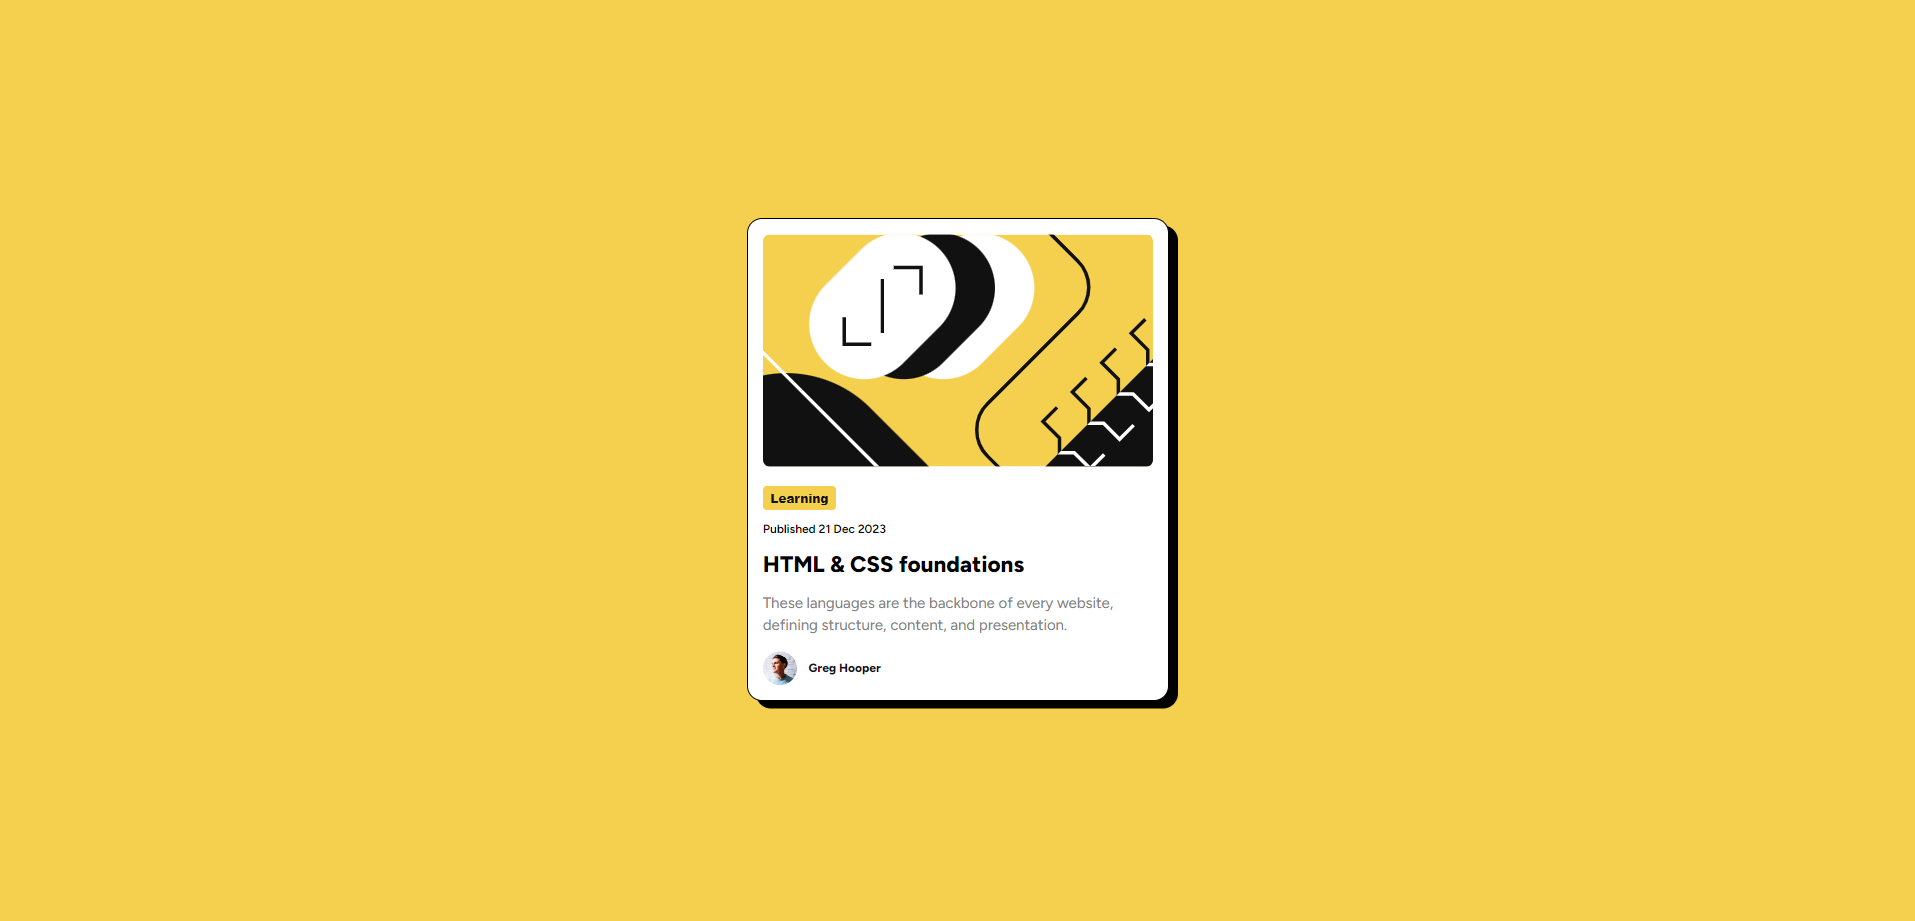
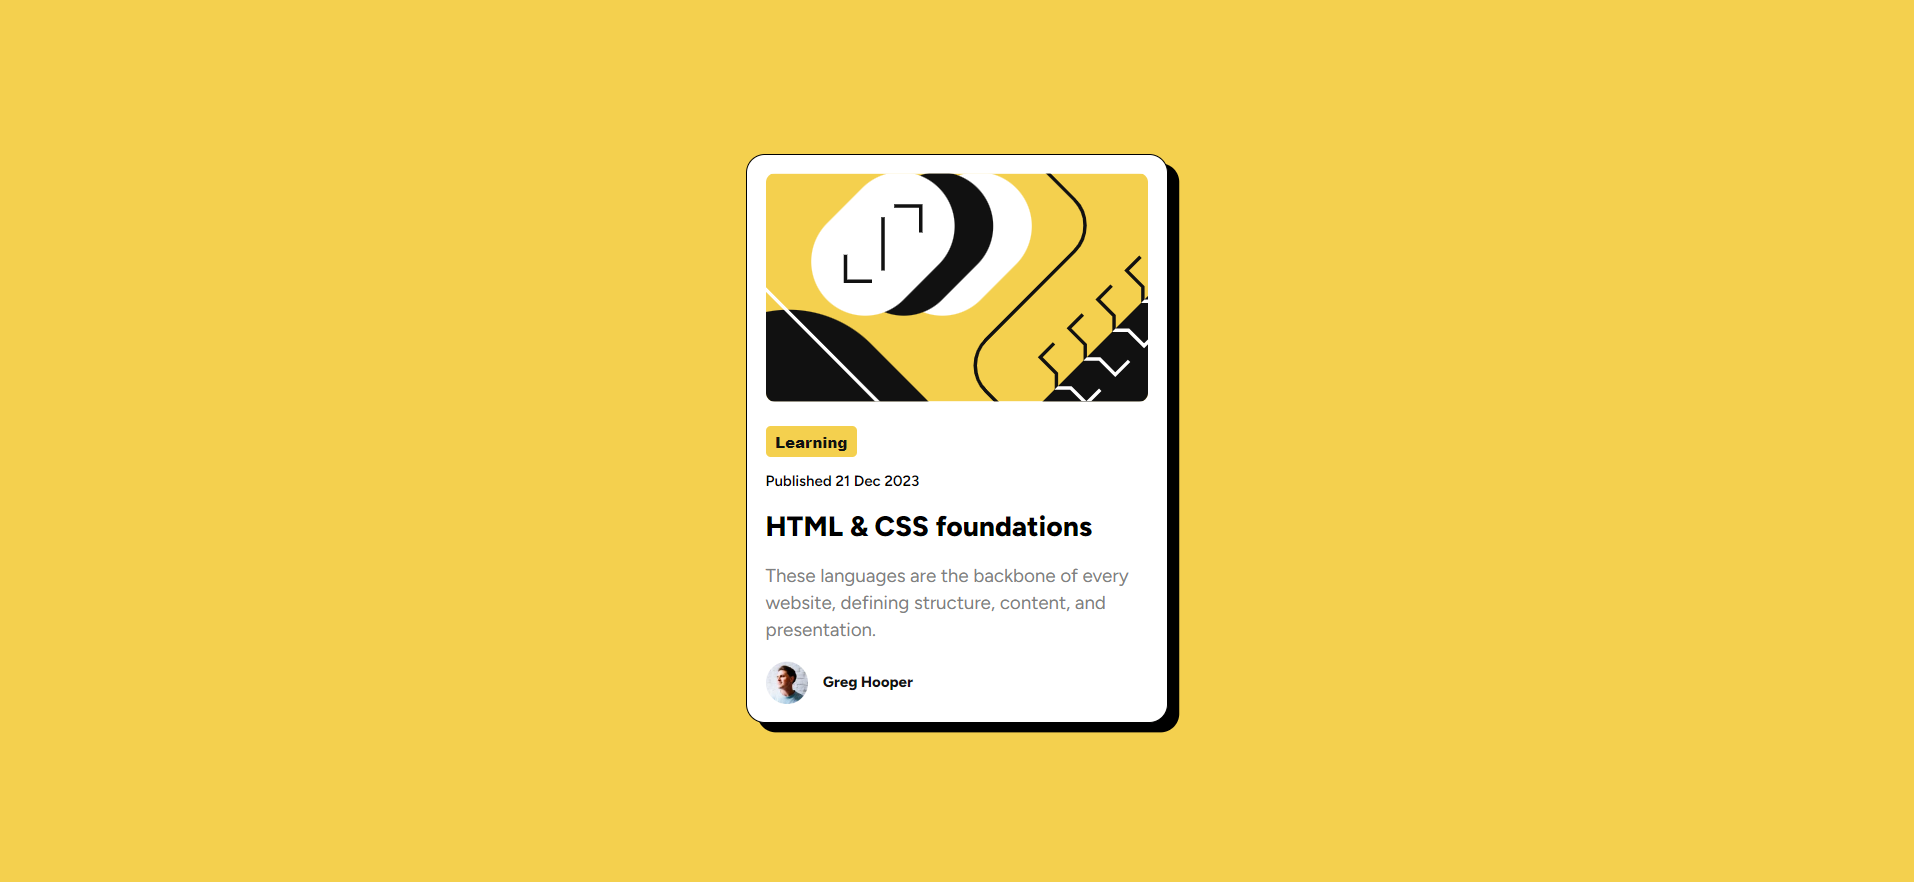
docs: add link netlify and adjust image

Changed region(s): [[0.3699, 0.1531, 0.6165, 0.8571]]

diff --git a/README.md b/README.md
@@ -26,4 +26,4 @@ Based on challenge in <a href="https://www.frontendmentor.io/challenges/blog-pre
 </ul>
 
 ## Do you want to see?
-<a href="">Open Here :dart:</a>
+<a href="https://65cd51f21d0ba6245704c34b--mellow-maamoul-081f8c.netlify.app/">Open Here :dart:</a>
